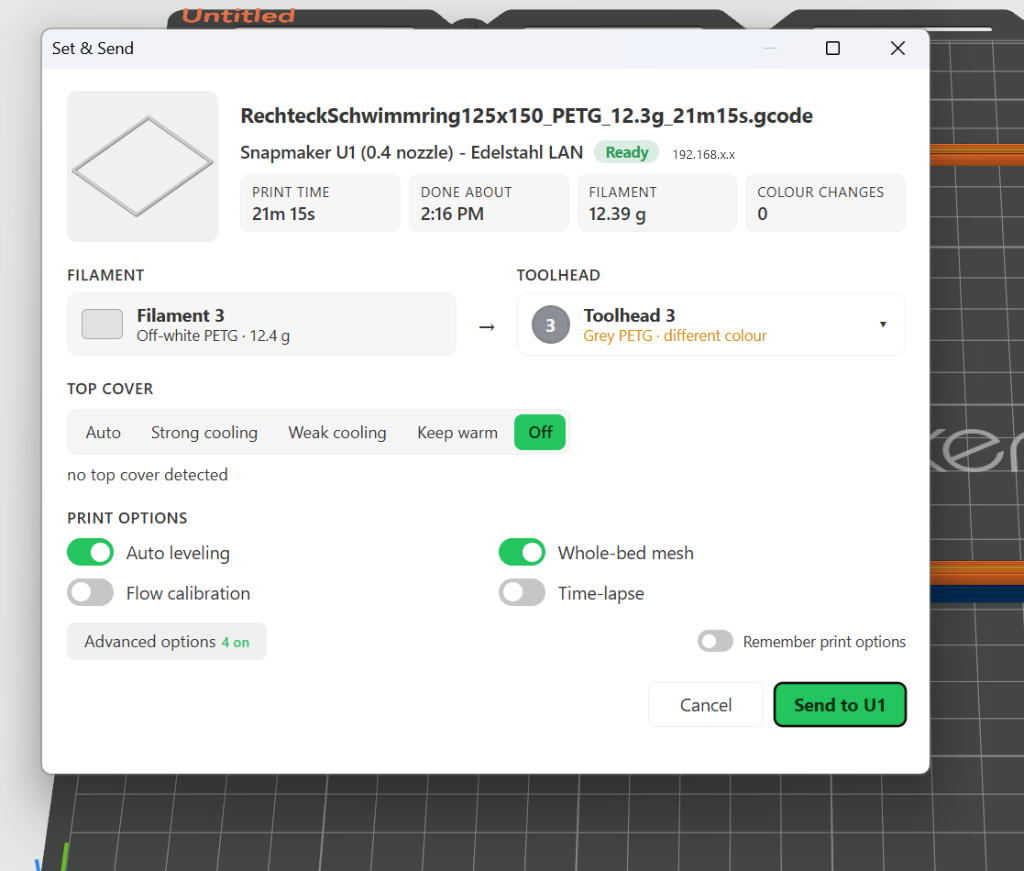
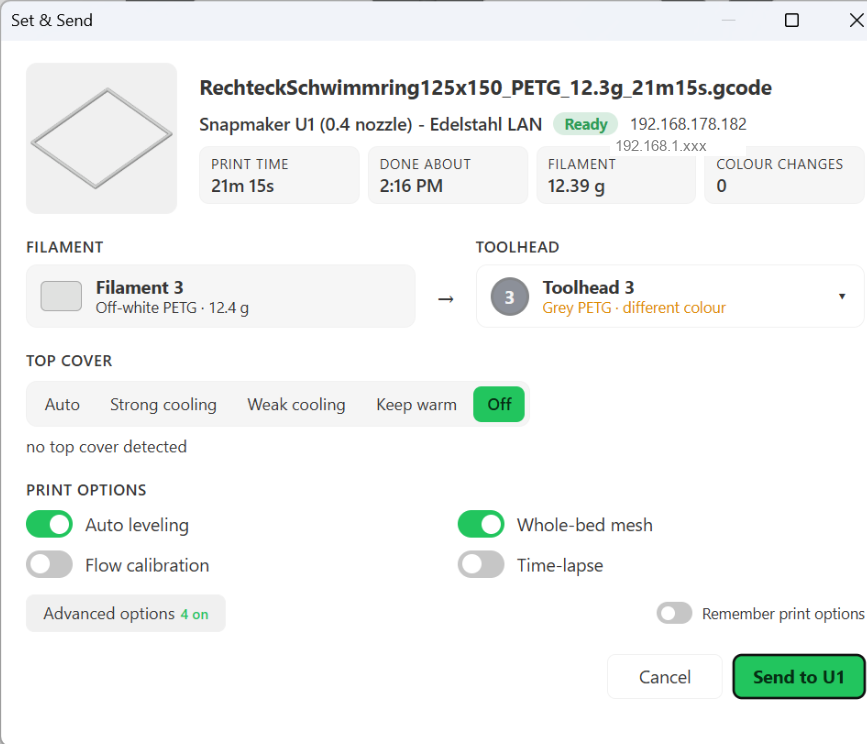
fix(assets): sanitize IPs, replace blurry crops with 1024px high-res visuals, and add client-side toolhead simulator

diff --git a/docs/homeassistant.html b/docs/homeassistant.html
@@ -5,7 +5,7 @@
   <meta name="viewport" content="width=device-width, initial-scale=1.0">
   <title>Home Assistant Dashboard · Snapmaker U1 Hub</title>
   <meta name="description" content="Production-ready Home Assistant dashboard, live telemetry, and automations for the Snapmaker U1 4-toolhead 3D printer.">
-  <link rel="stylesheet" href="styles.css?v=20261108_07">
+  <link rel="stylesheet" href="styles.css?v=20261108_08">
   <link rel="preconnect" href="https://fonts.googleapis.com">
   <link rel="preconnect" href="https://fonts.gstatic.com" crossorigin>
   <link href="https://fonts.googleapis.com/css2?family=Inter:wght@400;500;600;700;800&family=JetBrains+Mono:wght@400;600&display=swap" rel="stylesheet">
@@ -163,6 +163,16 @@
           </div>
           <div class="preview-image-wrapper">
             <img id="telemetry-preview-img" src="assets/tools-material-cutaway.jpg" alt="Tools & Material Telemetry Card" class="telemetry-img">
+          </div>
+          <div class="sim-tool-bar" style="display:flex; gap:6px; margin:14px 0 6px; justify-content:center; flex-wrap:wrap;">
+            <button class="sim-chip" data-tool="0" title="Kopf 0 auswählen"><strong>T0</strong> · Docked (24°C)</button>
+            <button class="sim-chip" data-tool="1" title="Kopf 1 auswählen"><strong>T1</strong> · Docked (23°C)</button>
+            <button class="sim-chip" data-tool="2" title="Kopf 2 auswählen"><strong>T2</strong> · Docked (25°C)</button>
+            <button class="sim-chip active" data-tool="3" title="Kopf 3 auswählen"><strong>T3</strong> · Mounted (210°C)</button>
+          </div>
+          <div class="sim-status-banner" id="sim-status-banner" style="background:#161b22; border:1px solid #30363d; border-radius:6px; padding:8px 14px; font-size:0.85rem; color:#adbac7; display:flex; justify-content:space-between; align-items:center; flex-wrap:wrap; gap:8px;">
+            <span><strong style="color:#58a6ff;" id="sim-active-tool">Toolhead 3 (Mounted)</strong>: <span id="sim-material">eSUN PETG Matte Grey · Nozzle 210°C · Bed 70°C</span></span>
+            <span style="font-family:monospace; color:#3fb950; font-weight:700;" id="sim-coords">X 227.6 · Y 300.5 · Z 9.9</span>
           </div>
           <div class="preview-caption" id="telemetry-preview-caption" data-i18n="cap-telemetry-cutaway">
             Beide Modi bieten volle Feature-Parität: Live skalierte XYZ-Achsen, Nozzle- & Betttemperaturen, dynamische Spulenfarben, Klick-Direktsteuerung und Spulen-Laden/Entladen. (Hier: Wireframe-Modus).

diff --git a/docs/app.js b/docs/app.js
@@ -597,6 +597,39 @@ document.addEventListener('DOMContentLoaded', () => {
     }
   };
 
+  
+  // Interactive Toolhead Simulation Chips (Pure Client-Side, No HA Backend Needed)
+  const simChips = document.querySelectorAll('.sim-chip');
+  const simActiveTool = document.getElementById('sim-active-tool');
+  const simMaterial = document.getElementById('sim-material');
+  const simCoords = document.getElementById('sim-coords');
+
+  const toolData = {
+    '0': { name: 'Toolhead 0 (Mounted)', mat: 'SUNLU PLA+ 2.0 Black · Nozzle 205°C · Bed 60°C', coords: 'X 12.0 · Y 24.5 · Z 0.2' },
+    '1': { name: 'Toolhead 1 (Mounted)', mat: 'Bambu PLA Basic White · Nozzle 220°C · Bed 60°C', coords: 'X 64.2 · Y 112.0 · Z 18.4' },
+    '2': { name: 'Toolhead 2 (Mounted)', mat: 'eSUN PETG Fire Red · Nozzle 240°C · Bed 75°C', coords: 'X 152.0 · Y 185.3 · Z 42.0' },
+    '3': { name: 'Toolhead 3 (Mounted)', mat: 'eSUN PETG Matte Grey · Nozzle 210°C · Bed 70°C', coords: 'X 227.6 · Y 300.5 · Z 9.9' }
+  };
+
+  simChips.forEach(chip => {
+    chip.addEventListener('click', () => {
+      const toolId = chip.getAttribute('data-tool');
+      simChips.forEach(c => {
+        const id = c.getAttribute('data-tool');
+        c.classList.remove('active');
+        c.innerHTML = `<strong>T${id}</strong> · Docked (${23 + parseInt(id)}°C)`;
+      });
+      chip.classList.add('active');
+      chip.innerHTML = `<strong>T${toolId}</strong> · Mounted (${toolId === '0' ? '205' : toolId === '1' ? '220' : toolId === '2' ? '240' : '210'}°C)`;
+
+      if (toolData[toolId] && simActiveTool && simMaterial && simCoords) {
+        simActiveTool.textContent = toolData[toolId].name;
+        simMaterial.textContent = toolData[toolId].mat;
+        simCoords.textContent = toolData[toolId].coords;
+      }
+    });
+  });
+
   telemBtns.forEach(btn => {
     btn.addEventListener('click', () => {
       telemBtns.forEach(b => b.classList.remove('active'));

diff --git a/docs/install.html b/docs/install.html
@@ -5,7 +5,7 @@
   <meta name="viewport" content="width=device-width, initial-scale=1.0">
   <title>Quick & Dirty · 3-Minute Fast Install · Snapmaker U1 Hub</title>
   <meta name="description" content="Quick & Dirty 3-Minute fast install guide for Snapmaker U1 Home Assistant & OrcaSlicer. No fluff, just click and run.">
-  <link rel="stylesheet" href="styles.css?v=20261108_07">
+  <link rel="stylesheet" href="styles.css?v=20261108_08">
   <link rel="preconnect" href="https://fonts.googleapis.com">
   <link rel="preconnect" href="https://fonts.gstatic.com" crossorigin>
   <link href="https://fonts.googleapis.com/css2?family=Inter:wght@400;500;600;700;800&family=JetBrains+Mono:wght@400;600&display=swap" rel="stylesheet">
@@ -218,7 +218,7 @@
     </div>
   </footer>
 
-  <script src="app.js?v=20261108_07"></script>
+  <script src="app.js?v=20261108_08"></script>
   <script>
     const btn = document.getElementById('btn-copy-quick-prompt');
     const txt = document.getElementById('quick-ai-prompt');

diff --git a/docs/credits.html b/docs/credits.html
@@ -5,7 +5,7 @@
   <meta name="viewport" content="width=device-width, initial-scale=1.0">
   <title>Credits & Community Hall of Fame · Snapmaker U1 Hub</title>
   <meta name="description" content="Standing on the shoulders of giants: Acknowledgements, original creators, and tip jars for the tools powering the Snapmaker U1 Community Hub.">
-  <link rel="stylesheet" href="styles.css?v=20261108_07">
+  <link rel="stylesheet" href="styles.css?v=20261108_08">
   <link rel="preconnect" href="https://fonts.googleapis.com">
   <link rel="preconnect" href="https://fonts.gstatic.com" crossorigin>
   <link href="https://fonts.googleapis.com/css2?family=Inter:wght@400;500;600;700;800&family=JetBrains+Mono:wght@400;600&display=swap" rel="stylesheet">
@@ -231,6 +231,6 @@
     </div>
   </footer>
 
-  <script src="app.js?v=20261108_07"></script>
+  <script src="app.js?v=20261108_08"></script>
 </body>
 </html>

diff --git a/docs/index.html b/docs/index.html
@@ -5,7 +5,7 @@
   <meta name="viewport" content="width=device-width, initial-scale=1.0">
   <title>Snapmaker U1 Community Hub · Home Assistant & OrcaSlicer</title>
   <meta name="description" content="Community toolkit for Snapmaker U1 4-toolhead 3D printer: Home Assistant Dashboard, OrcaSlicer profiles, and Operator Guide.">
-  <link rel="stylesheet" href="styles.css?v=20261108_07">
+  <link rel="stylesheet" href="styles.css?v=20261108_08">
   <link rel="preconnect" href="https://fonts.googleapis.com">
   <link rel="preconnect" href="https://fonts.gstatic.com" crossorigin>
   <link href="https://fonts.googleapis.com/css2?family=Inter:wght@400;500;600;700;800&family=JetBrains+Mono:wght@400;600&display=swap" rel="stylesheet">

diff --git a/docs/guide.html b/docs/guide.html
@@ -5,7 +5,7 @@
   <meta name="viewport" content="width=device-width, initial-scale=1.0">
   <title>Operator Guide & FAQ · Snapmaker U1 Hub</title>
   <meta name="description" content="Quick operator cheat sheets for filament loading/unloading and troubleshooting the Snapmaker U1 4-toolhead 3D printer.">
-  <link rel="stylesheet" href="styles.css?v=20261108_07">
+  <link rel="stylesheet" href="styles.css?v=20261108_08">
   <link rel="preconnect" href="https://fonts.googleapis.com">
   <link rel="preconnect" href="https://fonts.gstatic.com" crossorigin>
   <link href="https://fonts.googleapis.com/css2?family=Inter:wght@400;500;600;700;800&family=JetBrains+Mono:wght@400;600&display=swap" rel="stylesheet">

diff --git a/docs/orcaslicer.html b/docs/orcaslicer.html
@@ -5,7 +5,7 @@
   <meta name="viewport" content="width=device-width, initial-scale=1.0">
   <title>OrcaSlicer Profile & Presets · Snapmaker U1 Hub</title>
   <meta name="description" content="Tuned OrcaSlicer process profiles and 19 verified filament presets for the Snapmaker U1 4-toolhead 3D printer.">
-  <link rel="stylesheet" href="styles.css?v=20261108_07">
+  <link rel="stylesheet" href="styles.css?v=20261108_08">
   <link rel="preconnect" href="https://fonts.googleapis.com">
   <link rel="preconnect" href="https://fonts.gstatic.com" crossorigin>
   <link href="https://fonts.googleapis.com/css2?family=Inter:wght@400;500;600;700;800&family=JetBrains+Mono:wght@400;600&display=swap" rel="stylesheet">

diff --git a/docs/styles.css b/docs/styles.css
@@ -2253,3 +2253,27 @@ summary {
   gap: 10px;
   flex-wrap: wrap;
 }
+
+
+.sim-chip {
+  background: #21262d;
+  border: 1px solid #30363d;
+  color: #c9d1d9;
+  padding: 5px 12px;
+  border-radius: 99px;
+  font-size: 0.8rem;
+  cursor: pointer;
+  transition: all 0.15s ease;
+}
+
+.sim-chip:hover {
+  border-color: #58a6ff;
+  color: #fff;
+}
+
+.sim-chip.active {
+  background: #1f6feb;
+  border-color: #58a6ff;
+  color: #ffffff;
+  font-weight: 700;
+}
